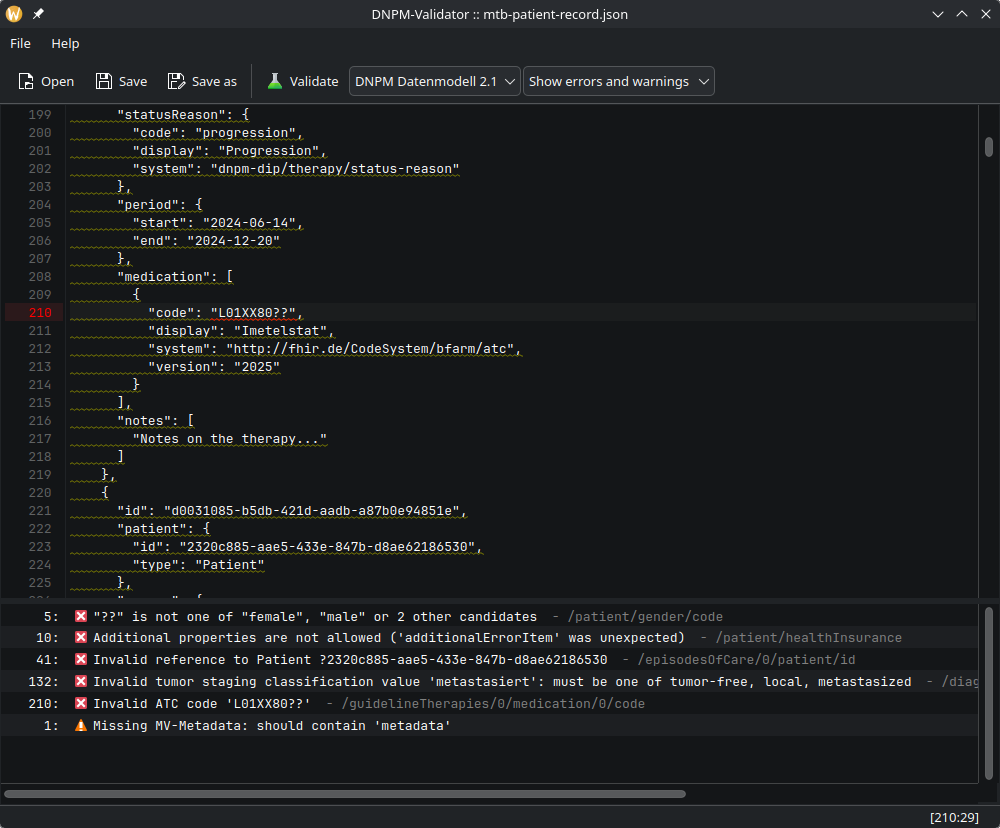
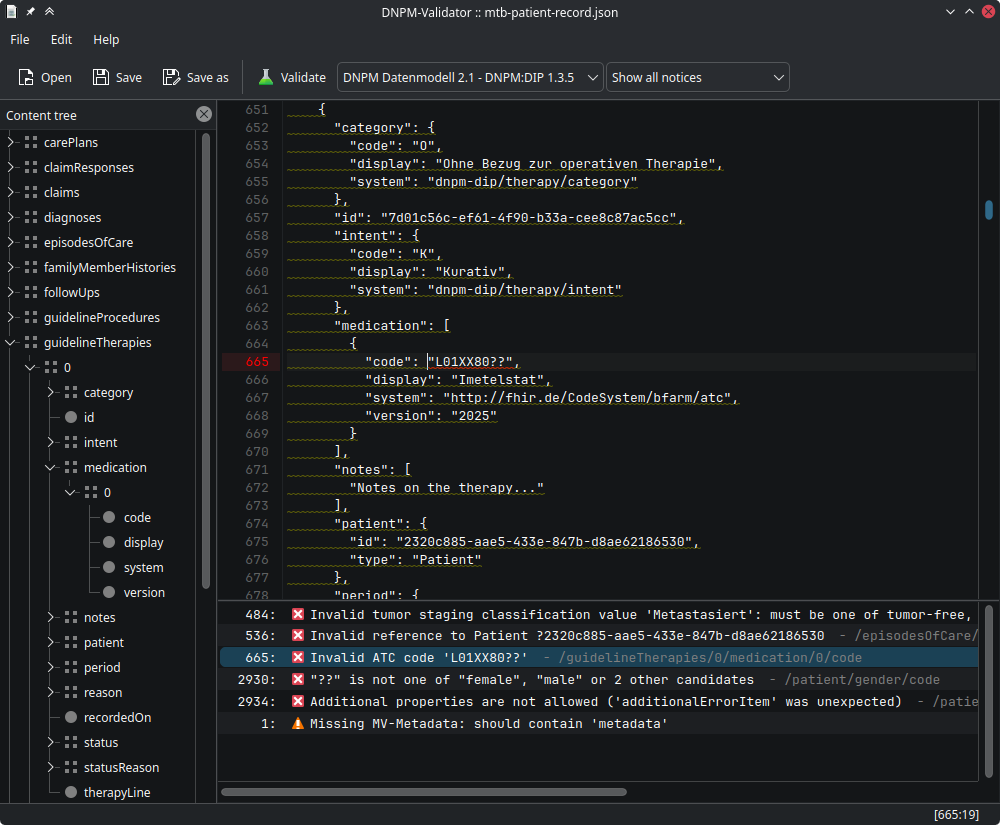
feat: add content tree to show document structure (#33)

diff --git a/dnpm-validator-ui/src/mainwindow.cpp b/dnpm-validator-ui/src/mainwindow.cpp
@@ -1,9 +1,6 @@
 #include "mainwindow.h"
-
-#include <QAction>
-
 #include "ui_mainwindow.h"
-
+#include <QAction>
 #include <QDebug>
 
 MainWindow::MainWindow(QWidget *parent) : QMainWindow(parent), ui(new Ui::MainWindow) {
@@ -122,6 +119,40 @@ MainWindow::MainWindow(QWidget *parent) : QMainWindow(parent), ui(new Ui::MainWi
             .arg(ui->plainTextEdit->textCursor().columnNumber() + 1)
         );
     });
+    connect(ui->plainTextEdit, &QPlainTextEdit::textChanged, [this]
+    {
+        this->updateTree();
+    });
+
+    connect(ui->treeWidget, &QTreeWidget::itemClicked, [this](QTreeWidgetItem * item)
+    {
+        ui->errorListWidget->clearSelection();
+
+        QString path = "";
+        QTreeWidgetItem * currentItem = item;
+        while (currentItem != nullptr)
+        {
+            path.prepend("/" + currentItem->text(0));
+            currentItem = currentItem->parent();
+        }
+
+        auto line = dnpmvalidation::find_position(ui->plainTextEdit->toPlainText().toStdString(), path.toStdString()).line;
+
+        ui->plainTextEdit->setFocus();
+        auto cursor = ui->plainTextEdit->textCursor();
+
+        cursor.clearSelection();
+        cursor.setPosition(
+            QTextCursor::Start
+        );
+
+        const auto startTextBlock = ui->plainTextEdit->document()->findBlockByLineNumber(line - 1);
+        cursor.setPosition(startTextBlock.position(), QTextCursor::MoveAnchor);
+        ui->plainTextEdit->setTextCursor(cursor);
+        ui->plainTextEdit->ensureCursorVisible();
+
+        this->highlightCurrentLine();
+    });
 
     connect(ui->findCloseButton, &QToolButton::clicked, [this]{
         this->ui->findWidget->hide();
@@ -166,6 +197,7 @@ void MainWindow::onOpenAction() {
         return;
     }
     this->setWindowTitle("DNPM-Validator");
+    this->updateTree();
 }
 
 void MainWindow::onSaveAction() {
@@ -255,7 +287,7 @@ void MainWindow::onValidateAction() {
             pathLabel->setFont(monospaceFont);
             layout.addWidget(pathLabel);
         }
-        layout.setContentsMargins(0, 2, 0, 2);
+        layout.setContentsMargins(0, 2, 20, 2);
 
         auto *item = new QListWidgetItem();
         ui->errorListWidget->addItem(item);
@@ -266,7 +298,9 @@ void MainWindow::onValidateAction() {
     this->markErrors();
 }
 
-void MainWindow::onErrorSelected(const int index) const {
+void MainWindow::onErrorSelected(const int index) {
+    ui->treeWidget->clearSelection();
+
     const auto error = this->errorList.at(index);
     auto cursor = ui->plainTextEdit->textCursor();
 
@@ -289,12 +323,13 @@ void MainWindow::onErrorSelected(const int index) const {
     this->highlightCurrentLine();
 }
 
-void MainWindow::onLineNumbersChanged(const int lineCount) const {
+void MainWindow::onLineNumbersChanged(const int lineCount) {
     QStringList lines;
     for (int i = 1; i <= lineCount; i++) {
         lines += QString::number(i).rightJustified(6, ' ');
     }
     this->ui->lineNumbers->setPlainText(lines.join('\n'));
+    this->updateTree();
 }
 
 void MainWindow::highlightCurrentLine() const {
@@ -405,4 +440,73 @@ void MainWindow::markErrors() {
     ui->plainTextEdit->setExtraSelections(textExtraSelections);
 
     this->highlightCurrentLine();
+}
+
+void MainWindow::updateTree()
+{
+    ui->treeWidget->clear();
+
+    auto json = ui->plainTextEdit->toPlainText();
+    auto doc = QJsonDocument::fromJson(json.toUtf8());
+
+    if (doc.isObject())
+    {
+        for (const auto obj = doc.toVariant().toJsonObject(); const auto& key : obj.keys())
+        {
+            auto * widget = new QTreeWidgetItem(ui->treeWidget);
+            widget->setText(0, key);
+            auto value = obj.value(key);
+            if (value.isObject() || value.isArray())
+            {
+                widget->setIcon(0, QIcon(":/resources/node.png").pixmap(12, 12));
+            } else
+            {
+                widget->setIcon(0, QIcon(":/resources/leaf.png").pixmap(12, 12));
+            }
+            this->addSubTreeWidget(widget, value);
+            ui->treeWidget->addTopLevelItem(widget);
+        }
+    }
+
+    ui->treeWidget->updateGeometry();
+}
+
+void MainWindow::addSubTreeWidget(QTreeWidgetItem * parent, const QJsonValue& value)
+{
+    if (value.isObject())
+    {
+        for (const auto obj = value.toVariant().toJsonObject(); const auto& key : obj.keys())
+        {
+            auto * widget = new QTreeWidgetItem();
+            widget->setText(0, key);
+            auto current_value = obj.value(key);
+            if (current_value.isObject() || current_value.isArray())
+            {
+                widget->setIcon(0, QIcon(":/resources/node.png").pixmap(12, 12));
+            } else
+            {
+                widget->setIcon(0, QIcon(":/resources/leaf.png").pixmap(12, 12));
+            }
+            this->addSubTreeWidget(widget, current_value);
+            parent->addChild(widget);
+        }
+    }
+    else if (value.isArray())
+    {
+        int i = 0;
+        for (auto item : value.toArray())
+        {
+            auto * widget = new QTreeWidgetItem();
+            widget->setText(0, QString::number(i++));
+            if (item.isObject() || item.isArray())
+            {
+                widget->setIcon(0, QIcon(":/resources/node.png").pixmap(12, 12));
+            } else
+            {
+                widget->setIcon(0, QIcon(":/resources/leaf.png").pixmap(12, 12));
+            }
+            this->addSubTreeWidget(widget, item);
+            parent->addChild(widget);
+        }
+    }
 }

diff --git a/dnpmvalidation/src/validation/mod.rs b/dnpmvalidation/src/validation/mod.rs
@@ -185,6 +185,36 @@ fn map_to_validation_error(
     }
 }
 
+pub(crate) fn find_position(json: &str, path: &str) -> Position {
+    let mut parser = Parser::new();
+
+    if parser
+        .set_language(&tree_sitter_json::LANGUAGE.into())
+        .is_ok()
+        && let Some(tree) = parser.parse(json, None)
+        && let Some(root) = tree.root_node().child(0)
+    {
+        let path_parts = path
+            .split('/')
+            .filter(|&part| !part.is_empty())
+            .collect::<Vec<&str>>();
+
+        let Some(node) = find_node(root, json, &path_parts) else {
+            return Position::empty();
+        };
+
+        let start = node.start_byte();
+        let line_start = json[..start].rfind('\n').map(|i| i + 1).unwrap_or(0);
+
+        Position::new(
+            node.start_position().row + 1,
+            json[line_start..start].chars().count() + 1,
+        )
+    } else {
+        Position::empty()
+    }
+}
+
 fn map_query_ref(query_ref: &QueryRef<Value>) -> (String, String) {
     let path = query_ref
         .path

diff --git a/dnpmvalidation/src/lib.rs b/dnpmvalidation/src/lib.rs
@@ -1,4 +1,6 @@
+use crate::ffi::Position;
 pub use crate::validation::{Severity, ValidationError, ValidationType, pretty_print, validate};
+use crate::validation::find_position;
 
 mod validation;
 
@@ -42,6 +44,9 @@ mod ffi {
 
         #[cxx_name = "pretty_print"]
         fn pretty_print_cxx(json: String) -> String;
+
+        #[cxx_name = "find_position"]
+        fn find_position_cxx(json: String, path: String) -> Position;
     }
 }
 
@@ -97,4 +102,12 @@ pub fn validate_cxx(
 
 pub fn pretty_print_cxx(json: String) -> String {
     pretty_print(json.as_str()).unwrap_or_default()
+}
+
+pub fn find_position_cxx(json: String, path: String) -> Position {
+    let pos = find_position(json.as_str(), path.as_str());
+    ffi::Position {
+        line: pos.line,
+        column: pos.column,
+    }
 }

diff --git a/dnpm-validator-ui/src/mainwindow.h b/dnpm-validator-ui/src/mainwindow.h
@@ -10,6 +10,10 @@
 #include <QMessageBox>
 #include <QScrollBar>
 #include <QShortcut>
+#include <QJsonDocument>
+#include <QJsonArray>
+#include <QJsonObject>
+#include <QTreeWidgetItem>
 
 #include <dnpmvalidation-cxx/lib.h>
 
@@ -39,6 +43,8 @@ private:
 
     void highlightCurrentLine() const;
     void markErrors();
+    void updateTree();
+    void addSubTreeWidget(QTreeWidgetItem * item, const QJsonValue& value);
 
 private slots:
     void onOpenAction();
@@ -49,9 +55,9 @@ private slots:
 
     void onValidateAction();
 
-    void onErrorSelected(int index) const;
+    void onErrorSelected(int index);
 
-    void onLineNumbersChanged(int lineCount) const;
+    void onLineNumbersChanged(int lineCount);
 };
 
 
